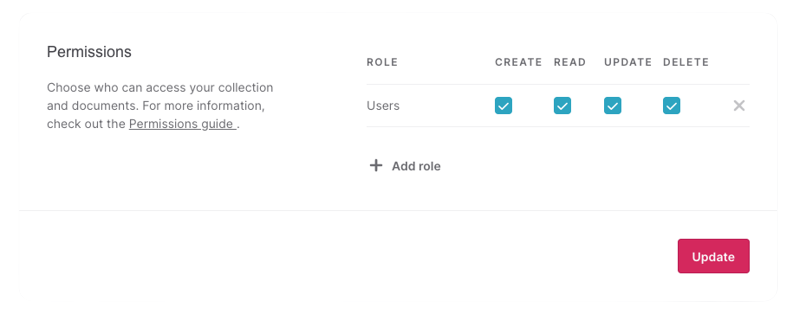
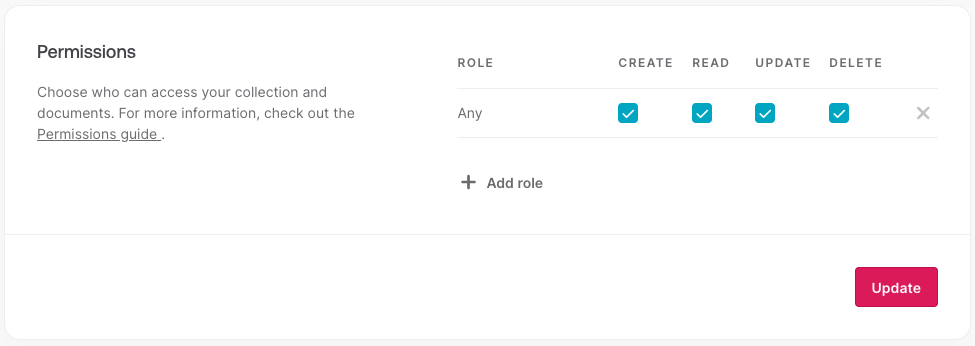
🔑 Change permission description

diff --git a/docs/en/workshop/database/create-collection.md b/docs/en/workshop/database/create-collection.md
@@ -46,9 +46,8 @@ maximum values for a number or whether the attribute is required, for example.
 ```ts
 type Coordinate = {
   name: string; // Required
-  latitude: float; // Required
-  longitude: float; // Required
-  picture?: url; // Optional (?)
+  latitude: number; // Required
+  longitude: number; // Required
 };
 ```
 
@@ -57,7 +56,8 @@ type Coordinate = {
 Our collection is ready! However, there are two small details to manage.
 
 Firstly, Appwrite does not grant any default access permissions to collections, so you will need to modify them in the *
-*Settings** tab to allow all logged-in users to retrieve, create, modify, and delete documents.
+*Settings** tab to allow all logged-in users to retrieve, create, modify, and delete documents. In our case, we will
+give the maximum permissions: `Any`. (Don't forget to confirm with the **Update** button)
 
 <Image src="/assets/workshop/database/permission.png" imageAlt="Collection Permission" withSpacing ></Image>
 

diff --git a/docs/workshop/database/create-collection.md b/docs/workshop/database/create-collection.md
@@ -49,9 +49,8 @@ valeur minimale et maximale pour un nombre, ou si l'attribut est requis par exem
 ```ts
 type Coordinate = {
   name: string; // Required
-  latitude: float; // Required
-  longitude: float; // Required
-  picture?: url; // Optional (?)
+  latitude: number; // Required
+  longitude: number; // Required
 };
 ```
 
@@ -61,7 +60,8 @@ Notre collection est prête ! En revanche, il reste deux petits détails à gér
 
 Premièrement, Appwrite ne donne aucune permission d’accès sur la collection par défaut, il vous faudra donc modifier
 ces dernières dans l’onglet **Settings**, pour que tous les utilisateurs connectés puissent récupérer, créer, modifier et
-supprimer des documents.
+supprimer des documents. Dans notre cas, nous allons donner les permissions maximales : `Any`. (N'oubliez pas de valider
+avec le bouton **Update**)
 
 <Image src="/assets/workshop/database/permission.png" imageAlt="Permission d'une collection" withSpacing></Image>
 
